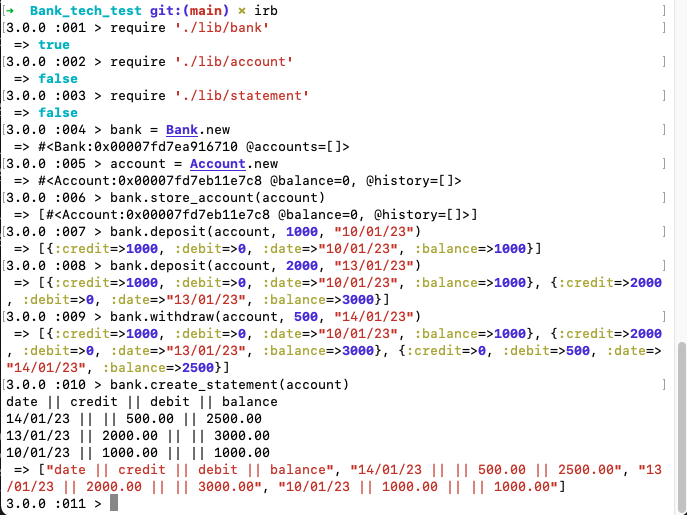
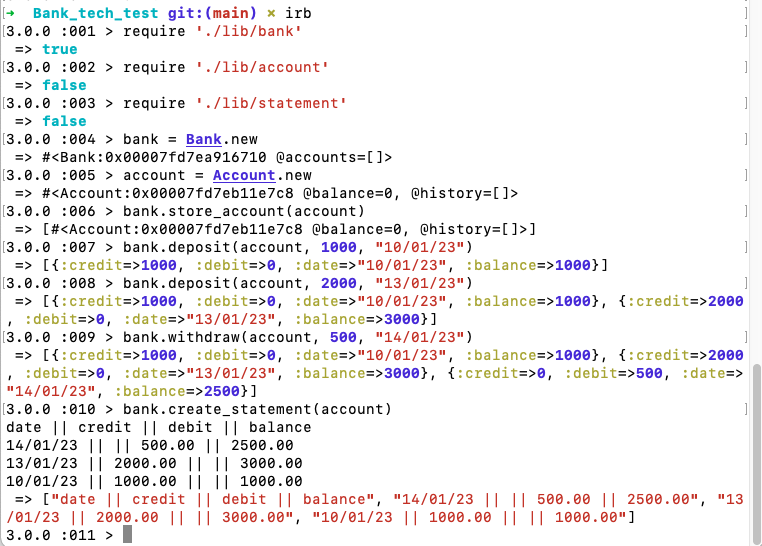
README updated. Review of overall code.

diff --git a/README.md b/README.md
@@ -1,15 +1,11 @@
 # Bank_tech_test
 
 ## Description
-First submission for Bank tech test, a simple bank app that can be run in IRB in your terminal.
+Second submission for Bank tech test. A simple program to emulate a bank account. This project is for demonstrating basic TDD and OOP principles, for tech test practise. The project is in Ruby and can be run locally in irb.
 
 * Acceptance criteria demonstrated in IRB with automatic date generation : 
 
 ![Diagram](images/IRB_example_01.png)
-
-* Acceptance criteria demonstrated in IRB with dates provided to match example : 
-
-![Diagram](images/IRB_example_02.png)
 
 
 ## To run
@@ -51,24 +47,11 @@ date || credit || debit || balance
 ## Process
 
 * Aim to use a TDD approach to completing the project:
-   - Plan
-   - Test
-   - Implement
-   - Refactor
-   - Commit
+   - Plan, Test, Implement, Refactor, Commit
 
 * Outline domain model:
 ![Diagram](images/Domain_model_01.png)
 
-* I have added the option of providing the date with the transaction. This was so that I could replicate the example given in the acceptance criteria (which has transactions on different days). On reflection, a bank would not allow you to do this, so I might take this out at a later stage. 
-
-* Thinking about the depency injection, I have refactored my code so the Account instance is now passed into the Bank instance, rather than being created inside the class. I think this is clearer to understand and does not impact the funcitonality of my code.
-
-* Updated domain model: 
-![Diagram](images/Domain_model_03.png)
-
-* The Account class is doing a lot of things. I may need to pull out the transcations(credit and debit funcitonality) as a separate class. First, I will finish the challenge requirements, by focusing on the printed statement, and then I will look at refactoring classes.
-
-* Domain model: 
-![Diagram](images/Domain_model_04.png)
+* Following review, redesign of domain model: 
+![Diagram](images/Domain_model_05.png)
 
